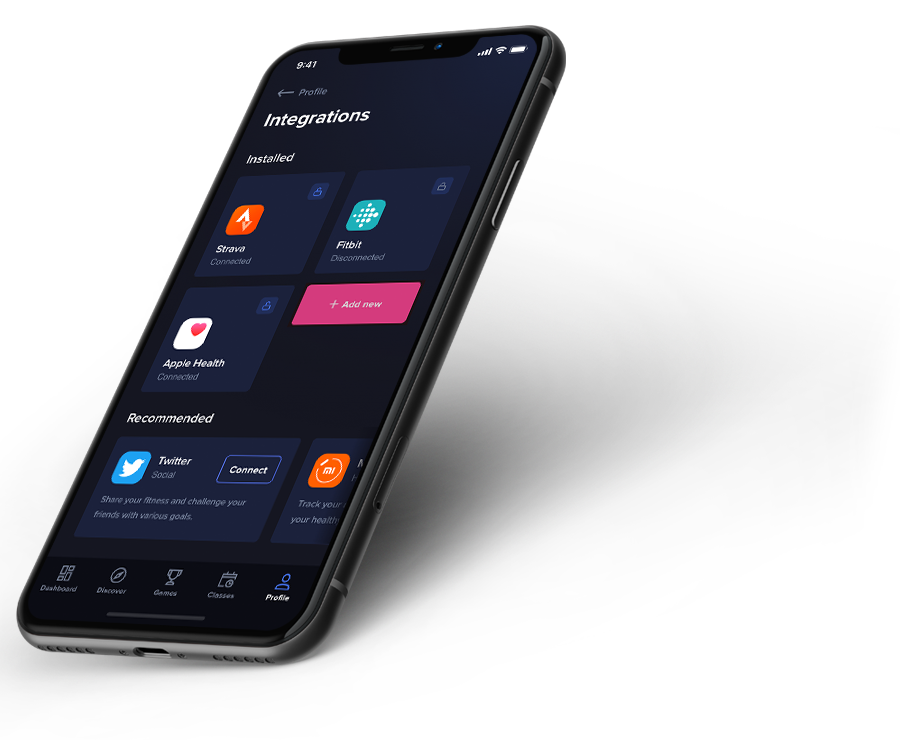
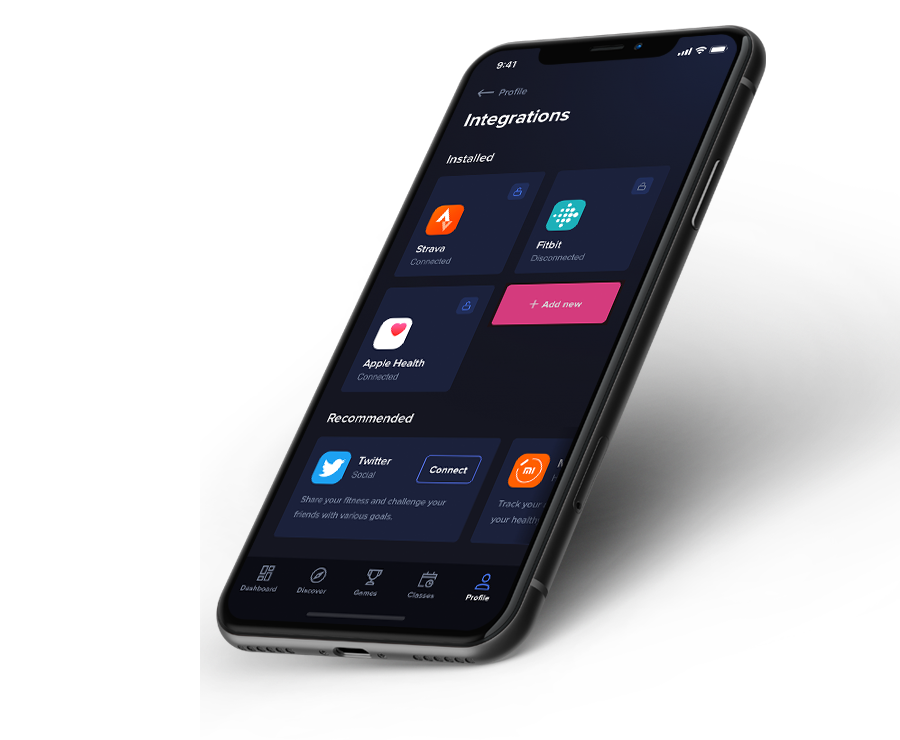
feat: Add hero section

diff --git a/src/index.css b/src/index.css
@@ -11,6 +11,7 @@
   --fs-6: 1.4rem;
   --fs-7: 1.2rem;
 
+  --black-navy: #0f2137;
   --dark-navy: #1e3c72;
   --navy: #2a5298;
   --white: #fff;
@@ -34,7 +35,7 @@ html {
 
 body {
   background-color: var(--light-black);
-  font-family: "Poppins", sans-serif;
+  font-family: "DM Sans", sans-serif;
 }
 
 #container {
@@ -46,15 +47,47 @@ body {
 \*-----------------------------------*/
 
 .btn {
+  display: inline-block;
   padding: 1.3rem 3.1rem;
   border-radius: 5rem;
-  font-family: "DM Sans", sans-serif;
+  font-size: var(--fs-5);
+  user-select: none;
+  cursor: pointer;
 }
 
 .btn_transparent {
   background-color: transparent;
   border: 1.5px solid var(--white);
   color: var(--white);
+}
+
+.btn_white {
+  background-color: var(--white);
+  font-weight: 500;
+  font-variation-settings: "wght" 500;
+  color: var(--black-navy);
+}
+
+.link {
+  text-decoration: none;
+  color: var(--white);
+  font-size: var(--fs-5);
+}
+
+.sublink {
+  text-decoration: none;
+  color: var(--white);
+  font-size: var(--fs-6);
+  margin-bottom: 1rem;
+  display: block;
+}
+
+.heading-primary {
+  font-size: var(--fs-1);
+}
+
+.paragraph {
+  font-size: var(--fs-5);
 }
 
 /*-----------------------------------*\
@@ -65,9 +98,12 @@ body {
   display: flex;
   justify-content: space-between;
   align-items: center;
-  margin-bottom: 3rem;
   background-color: var(--dark-navy);
   padding: 1.5rem 4vw;
+  position: relative;
+}
+
+.header__shapes-container {
   position: relative;
 }
 
@@ -78,7 +114,8 @@ body {
   gap: 1rem;
   font-weight: bold;
   color: var(--white);
-  z-index: 4;
+  z-index: 999;
+  font-family: "Poppins", sans-serif;
 }
 
 .header__logo-img {
@@ -94,8 +131,8 @@ body {
   left: 0;
   text-align: center;
   width: 100%;
-  padding: 2rem 0;
-  z-index: 1;
+  padding: 10rem 0 2rem;
+  z-index: 998;
 }
 
 .header__nav-list {
@@ -106,20 +143,6 @@ body {
 
 .header__nav-item {
   margin-bottom: 1rem;
-}
-
-.header__nav-link {
-  text-decoration: none;
-  color: var(--white);
-  font-size: var(--fs-5);
-}
-
-.header__nav-sublink {
-  text-decoration: none;
-  color: var(--white);
-  font-size: var(--fs-6);
-  margin-bottom: 1rem;
-  display: block;
 }
 
 .header__nav-dropdown {
@@ -137,5 +160,105 @@ body {
 .header__nav-dropdown img {
   width: 1.5rem;
   margin-left: 0.5rem;
+  filter: invert(100%);
+}
+
+.header__shapes-1,
+.header__shapes-2,
+.header__shapes-3 {
+  position: absolute;
+  z-index: 3;
+}
+
+.header__shapes-1,
+.header__shapes-2 {
+  height: 60%;
+  width: 50%;
+}
+
+.header__shapes-3 {
+  width: 50%;
+  height: 30%;
+}
+
+.header__shapes-1 {
+  top: 0;
+  left: 0;
+}
+
+.header__shapes-2 {
+  bottom: 0;
+  right: 0;
+}
+
+.header__circle-shape-1 {
+  top: 5%;
+  right: -5%;
+}
+
+.header__circle-shape-2 {
+  bottom: 5%;
+  left: -5%;
+}
+
+/*-----------------------------------*\
+  #HERO
+\*-----------------------------------*/
+
+.hero {
+  background-color: #1e3c72;
+  color: var(--white);
+  padding-bottom: 5rem;
+}
+
+.hero__image {
+  position: relative;
+}
+
+.hero__mockup {
+  width: 100%;
+  height: auto;
+  z-index: 3;
+  position: relative;
+}
+
+.hero__dot-pattern {
+  position: absolute;
+  width: 12rem;
+  height: 14rem;
+  top: -2%;
+  left: 60%;
+}
+
+.hero__textbox {
+  padding: 0 4vw;
+  text-align: center;
+  position: relative;
+  z-index: 999;
+}
+
+.hero__heading {
+  margin-bottom: 1rem;
+}
+
+.hero__text {
+  margin-bottom: 3rem;
+}
+
+.hero__cta {
+  display: flex;
+  align-items: center;
+  gap: 2rem;
+  justify-content: center;
+}
+
+.hero__cta-video {
+  display: flex;
+  align-items: center;
+  gap: 0.5rem;
+}
+
+.hero__cta-video img {
+  width: 2.8rem;
   filter: invert(100%);
 }

diff --git a/src/components/Header.jsx b/src/components/Header.jsx
@@ -33,7 +33,7 @@ export default function Header() {
         className={`header__nav ${isOpen ? "open" : ""}`}
         animate={{
           display: isOpen ? "block" : "none",
-          y: isOpen ? 75 : "-100%",
+          y: isOpen ? "0" : "-100%",
           opacity: isOpen ? 0.99 : 0.2,
           style: {
             backgroundColor: isOpen ? "transparent" : "var(--dark-navy)",
@@ -47,7 +47,7 @@ export default function Header() {
       >
         <ul className="header__nav-list">
           <li className="header__nav-item">
-            <a href="#" className="header__nav-link">
+            <a href="#" className="header__nav-link link">
               Home
             </a>
           </li>
@@ -60,17 +60,17 @@ export default function Header() {
               }
             >
               <li className="header__nav-subitem">
-                <a href="#" className="header__nav-sublink">
+                <a href="#" className="header__nav-sublink sublink">
                   Adversite
                 </a>
               </li>
               <li className="header__nav-subitem">
-                <a href="#" className="header__nav-sublink">
+                <a href="#" className="header__nav-sublink sublink">
                   Adversite
                 </a>
               </li>
               <li className="header__nav-subitem">
-                <a href="#" className="header__nav-sublink">
+                <a href="#" className="header__nav-sublink sublink">
                   Adversite
                 </a>
               </li>
@@ -86,24 +86,24 @@ export default function Header() {
               }
             >
               <li className="header__nav-subitem">
-                <a href="#" className="header__nav-sublink">
+                <a href="#" className="header__nav-sublink sublink">
                   Support
                 </a>
               </li>
               <li className="header__nav-subitem">
-                <a href="#" className="header__nav-sublink">
+                <a href="#" className="header__nav-sublink sublink">
                   Support
                 </a>
               </li>
               <li className="header__nav-subitem">
-                <a href="#" className="header__nav-sublink">
+                <a href="#" className="header__nav-sublink sublink">
                   Support
                 </a>
               </li>
             </DropdownLink>
           </li>
           <li className="header__nav-item">
-            <a href="#" className="header__nav-link">
+            <a href="#" className="header__nav-link link">
               Contact
             </a>
           </li>

diff --git a/src/App.jsx b/src/App.jsx
@@ -1,13 +1,55 @@
 import Header from "./components/Header";
 import phoneMockup from "../src/assets/phone mockup.png";
+import playCircle from "../src/assets/play circle.svg";
+import dotPattern from "../src/assets/dot-pattern.png";
+import shape_1 from "../src/assets/Rectangle 1.png";
+import shape_2 from "../src/assets/Rectangle 1.1.png";
+import circle_shape_1 from "../src/assets/circle.png";
+import circle_shape_2 from "../src/assets/circle-2.png";
 
 function App() {
   return (
     <>
-      <Header />
-      <section className="hero">
-        <img src={phoneMockup} alt="" />
-      </section>
+      <div className="header__shapes-container">
+        <img className="header__shapes-1" src={shape_1} alt="" />
+        <img className="header__shapes-2" src={shape_2} alt="" />
+
+        <img
+          className="header__shapes-3 header__circle-shape-1"
+          src={circle_shape_1}
+          alt=""
+        />
+
+        <img
+          className="header__shapes-3 header__circle-shape-2"
+          src={circle_shape_2}
+          alt=""
+        />
+        <Header />
+        <section className="hero">
+          <div className="hero__image">
+            <img className="hero__mockup" src={phoneMockup} alt="" />
+            <img className="hero__dot-pattern" src={dotPattern} alt="" />
+          </div>
+          <div className="hero__textbox">
+            <h1 className="heading-primary hero__heading">
+              Experience your ultimate mobile application
+            </h1>
+            <p className="paragraph hero__text">
+              Get your blood tests delivered at let home collect sample from the
+              victory of the managments that supplies best design system
+              guidelines ever.
+            </p>
+
+            <div className="hero__cta">
+              <a className="hero__cta-btn btn btn_white">Get Started</a>
+              <a href="#" className="hero__cta-video link">
+                <img src={playCircle} alt="" /> Watch video
+              </a>
+            </div>
+          </div>
+        </section>
+      </div>
     </>
   );
 }

diff --git a/src/components/DropdownLink/DropdownLink.jsx b/src/components/DropdownLink/DropdownLink.jsx
@@ -15,7 +15,7 @@ export default function DropdownLink({ name, children, isActive, onShow }) {
   return (
     <>
       <span
-        className={`header__nav-link header__nav-dropdown ${
+        className={`header__nav-link link header__nav-dropdown ${
           isActive ? "open" : ""
         }`}
         onClick={onShow}

diff --git a/src/styles/hamburger.css b/src/styles/hamburger.css
@@ -11,7 +11,7 @@
   -o-transition: 0.5s ease-in-out;
   transition: 0.5s ease-in-out;
   cursor: pointer;
-  z-index: 4;
+  z-index: 999;
 }
 
 .header__hambuger > span {
